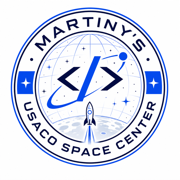
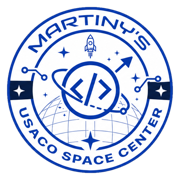
Refresh public site branding

diff --git a/style.css b/style.css
@@ -1,6 +1,6 @@
 :root {
   color-scheme: dark;
-  --bg: #090a0f;
+  --bg: #050711;
   --panel: rgba(17, 18, 25, 0.82);
   --panel-solid: #13141c;
   --panel-strong: rgba(22, 24, 33, 0.96);
@@ -62,23 +62,25 @@ body {
   color: var(--text);
   font-family: Inter, ui-sans-serif, system-ui, -apple-system, BlinkMacSystemFont, "Segoe UI", sans-serif;
   background:
-    radial-gradient(ellipse at 18% 18%, color-mix(in srgb, var(--member-purple) 34%, transparent), transparent 30rem),
-    radial-gradient(ellipse at 86% 8%, rgba(154, 218, 255, 0.26), transparent 26rem),
-    radial-gradient(ellipse at 78% 94%, rgba(166, 208, 166, 0.18), transparent 28rem),
-    radial-gradient(ellipse at 8% 86%, color-mix(in srgb, var(--member-rose) 14%, transparent), transparent 24rem),
-    linear-gradient(118deg, transparent 0 48%, rgba(154, 218, 255, 0.08) 49%, transparent 62%),
-    linear-gradient(180deg, #070810 0%, #0d1020 46%, color-mix(in srgb, var(--member-void) 34%, #080910) 100%);
+    radial-gradient(ellipse at 50% -18%, rgba(43, 102, 192, 0.38), transparent 35rem),
+    radial-gradient(ellipse at 15% 18%, color-mix(in srgb, var(--member-purple) 36%, transparent), transparent 31rem),
+    radial-gradient(ellipse at 88% 10%, rgba(154, 218, 255, 0.22), transparent 27rem),
+    radial-gradient(ellipse at 76% 94%, rgba(166, 208, 166, 0.13), transparent 29rem),
+    radial-gradient(ellipse at 8% 86%, color-mix(in srgb, var(--member-rose) 13%, transparent), transparent 24rem),
+    linear-gradient(118deg, transparent 0 48%, rgba(154, 218, 255, 0.09) 49%, transparent 63%),
+    linear-gradient(180deg, #050711 0%, #09122a 48%, #080a13 100%);
   letter-spacing: 0;
 }
 
 :root[data-theme="light"] body {
   background:
-    radial-gradient(ellipse at 16% 14%, color-mix(in srgb, var(--member-lavender) 42%, transparent), transparent 30rem),
-    radial-gradient(ellipse at 88% 8%, rgba(154, 218, 255, 0.42), transparent 28rem),
-    radial-gradient(ellipse at 76% 94%, rgba(166, 208, 166, 0.28), transparent 30rem),
-    radial-gradient(ellipse at 8% 88%, color-mix(in srgb, var(--member-rose) 18%, transparent), transparent 24rem),
-    linear-gradient(118deg, transparent 0 48%, rgba(43, 102, 192, 0.08) 49%, transparent 62%),
-    linear-gradient(180deg, #fbfcff 0%, #eef4ff 48%, #f8fbff 100%);
+    radial-gradient(ellipse at 50% -16%, rgba(43, 102, 192, 0.2), transparent 34rem),
+    radial-gradient(ellipse at 16% 14%, color-mix(in srgb, var(--member-lavender) 35%, transparent), transparent 30rem),
+    radial-gradient(ellipse at 88% 8%, rgba(154, 218, 255, 0.34), transparent 28rem),
+    radial-gradient(ellipse at 76% 94%, rgba(166, 208, 166, 0.22), transparent 30rem),
+    radial-gradient(ellipse at 8% 88%, color-mix(in srgb, var(--member-rose) 15%, transparent), transparent 24rem),
+    linear-gradient(118deg, transparent 0 48%, rgba(43, 102, 192, 0.07) 49%, transparent 62%),
+    linear-gradient(180deg, #ffffff 0%, #eef5ff 50%, #f8fbff 100%);
 }
 
 body::before {
@@ -207,30 +209,81 @@ footer,
   gap: 14px;
   align-items: center;
   padding: 14px 0;
-  background: linear-gradient(180deg, rgba(9, 10, 15, 0.9), rgba(9, 10, 15, 0.55) 72%, transparent);
+  background: linear-gradient(180deg, rgba(5, 7, 17, 0.92), rgba(5, 7, 17, 0.5) 72%, transparent);
   backdrop-filter: blur(18px);
 }
 
 :root[data-theme="light"] .topbar {
-  background: linear-gradient(180deg, rgba(244, 247, 255, 0.9), rgba(244, 247, 255, 0.62) 72%, transparent);
+  background: linear-gradient(180deg, rgba(248, 251, 255, 0.9), rgba(248, 251, 255, 0.58) 72%, transparent);
 }
 
 .brand {
+  position: relative;
   display: inline-flex;
   align-items: center;
   min-width: 0;
   color: var(--text);
   text-decoration: none;
+  isolation: isolate;
+}
+
+.brand::before,
+.brand::after {
+  content: "";
+  position: absolute;
+  pointer-events: none;
+}
+
+.brand::before {
+  inset: -24px -42px -22px -24px;
+  z-index: -2;
+  border-radius: 999px;
+  background:
+    radial-gradient(ellipse at 28% 52%, rgba(43, 102, 192, 0.38), transparent 62%),
+    radial-gradient(ellipse at 54% 48%, rgba(154, 218, 255, 0.16), transparent 58%),
+    radial-gradient(ellipse at 78% 44%, color-mix(in srgb, var(--member-lavender) 18%, transparent), transparent 64%);
+  filter: blur(2px);
+}
+
+.brand::after {
+  left: clamp(34px, 4vw, 56px);
+  top: 50%;
+  z-index: -1;
+  width: min(48vw, 560px);
+  height: clamp(74px, 7vw, 108px);
+  border-radius: 50%;
+  background:
+    linear-gradient(90deg, rgba(154, 218, 255, 0.14), transparent 76%),
+    radial-gradient(ellipse at 12% 50%, rgba(255, 255, 255, 0.08), transparent 52%);
+  mask-image: radial-gradient(ellipse at left, #000 0 44%, transparent 74%);
+  transform: translateY(-50%) rotate(-2deg);
+}
+
+:root[data-theme="light"] .brand::before {
+  background:
+    radial-gradient(ellipse at 28% 52%, rgba(43, 102, 192, 0.18), transparent 62%),
+    radial-gradient(ellipse at 54% 48%, rgba(154, 218, 255, 0.24), transparent 58%),
+    radial-gradient(ellipse at 78% 44%, color-mix(in srgb, var(--member-lavender) 18%, transparent), transparent 64%);
+}
+
+:root[data-theme="light"] .brand::after {
+  background:
+    linear-gradient(90deg, rgba(43, 102, 192, 0.11), transparent 76%),
+    radial-gradient(ellipse at 12% 50%, rgba(255, 255, 255, 0.72), transparent 52%);
 }
 
 .brand-logo {
+  position: relative;
+  z-index: 1;
   display: block;
   width: auto;
   max-width: min(620px, 58vw);
-  height: clamp(72px, 8vw, 104px);
+  height: clamp(82px, 8vw, 116px);
   object-fit: contain;
   object-position: left center;
-  filter: drop-shadow(0 0 18px rgba(43, 102, 192, 0.24));
+  filter:
+    drop-shadow(0 14px 22px rgba(0, 0, 0, 0.26))
+    drop-shadow(0 0 18px rgba(43, 102, 192, 0.28));
 }
 
 .brand-logo-light {
@@ -243,6 +296,9 @@ footer,
 
 :root[data-theme="light"] .brand-logo-light {
   display: block;
+  filter:
+    drop-shadow(0 12px 20px rgba(43, 102, 192, 0.12))
+    drop-shadow(0 0 10px rgba(255, 255, 255, 0.92));
 }
 
 .sr-only {
@@ -778,9 +834,19 @@ footer {
     justify-content: start;
   }
 
+  .brand::before {
+    inset: -14px -18px -12px -16px;
+  }
+
+  .brand::after {
+    left: 22px;
+    width: min(84vw, 330px);
+    height: 58px;
+  }
+
   .brand-logo {
     max-width: min(100%, 320px);
-    height: 48px;
+    height: 58px;
   }
 
   .filter-grid {

diff --git a/index.html b/index.html
@@ -5,7 +5,7 @@
     <meta name="viewport" content="width=device-width, initial-scale=1">
     <meta name="description" content="Martiny's USACO Space Center">
     <title>Martiny's USACO Space Center</title>
-    <link rel="icon" type="image/png" sizes="32x32" href="assets/favicon-32.png">
+    <link id="theme-favicon" rel="icon" type="image/png" sizes="32x32" href="assets/favicon-dark-32.png">
     <link rel="icon" type="image/png" sizes="192x192" href="assets/icon-192.png">
     <link rel="apple-touch-icon" sizes="180x180" href="assets/apple-touch-icon.png">
     <script>
@@ -27,8 +27,8 @@
 
     <header class="topbar">
       <a class="brand" href="#problem-list" aria-label="문제 목록으로 이동">
-        <img class="brand-logo brand-logo-dark" src="assets/martiny-wordmark-dark-header.png" width="1672" height="650" alt="Martiny's USACO Space Center">
-        <img class="brand-logo brand-logo-light" src="assets/martiny-wordmark-light-header.png" width="1672" height="650" alt="" aria-hidden="true">
+        <img class="brand-logo brand-logo-dark" src="assets/martiny-logo-dark-transparent.png" width="1591" height="607" alt="Martiny's USACO Space Center">
+        <img class="brand-logo brand-logo-light" src="assets/martiny-logo-light-transparent.png" width="1591" height="635" alt="" aria-hidden="true">
         <h1 class="sr-only">Martiny's USACO Space Center</h1>
       </a>
 

diff --git a/app.js b/app.js
@@ -1,4 +1,8 @@
 const THEME_KEY = "martiny-usaco-theme";
+const FAVICON_BY_THEME = {
+  dark: "assets/favicon-dark-32.png",
+  light: "assets/favicon-light-32.png"
+};
 
 const DIFFICULTIES = {
   1: "Meteor",
@@ -416,6 +420,10 @@ function setupTheme() {
 function setTheme(theme) {
   document.documentElement.dataset.theme = theme;
   localStorage.setItem(THEME_KEY, theme);
+  const favicon = document.getElementById("theme-favicon");
+  if (favicon) {
+    favicon.href = FAVICON_BY_THEME[theme] || FAVICON_BY_THEME.dark;
+  }
   if (els.themeToggle) {
     els.themeToggle.textContent = theme === "light" ? "다크 모드" : "라이트 모드";
     els.themeToggle.setAttribute("aria-label", `${theme === "light" ? "다크" : "라이트"} 모드로 전환`);
